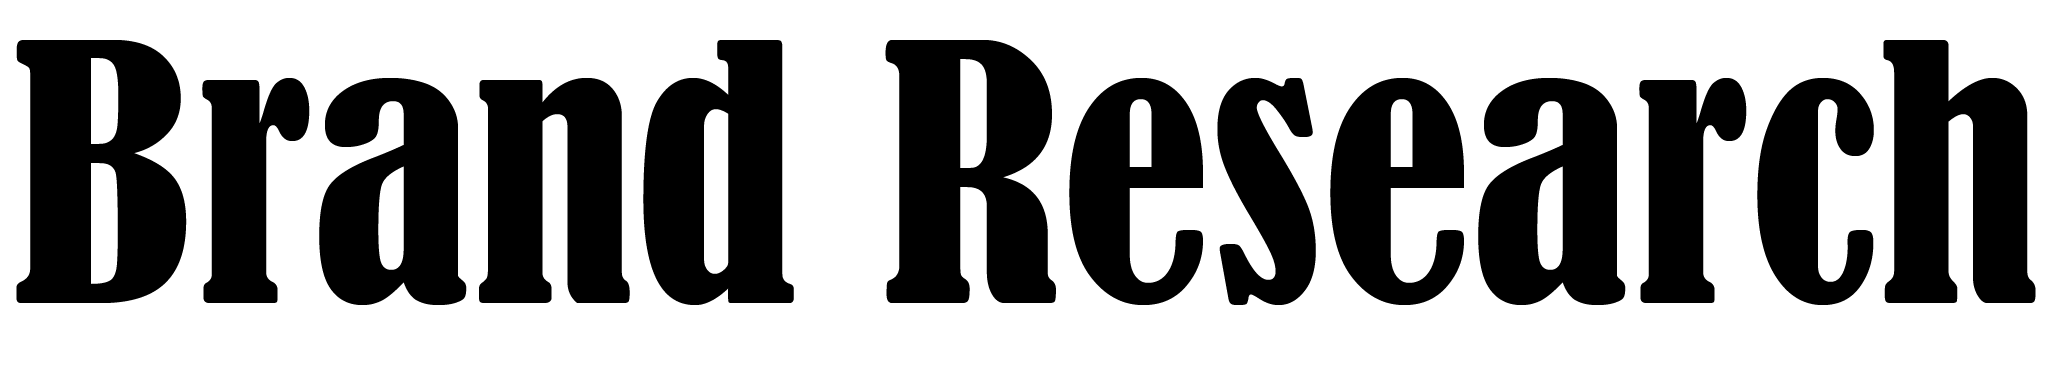
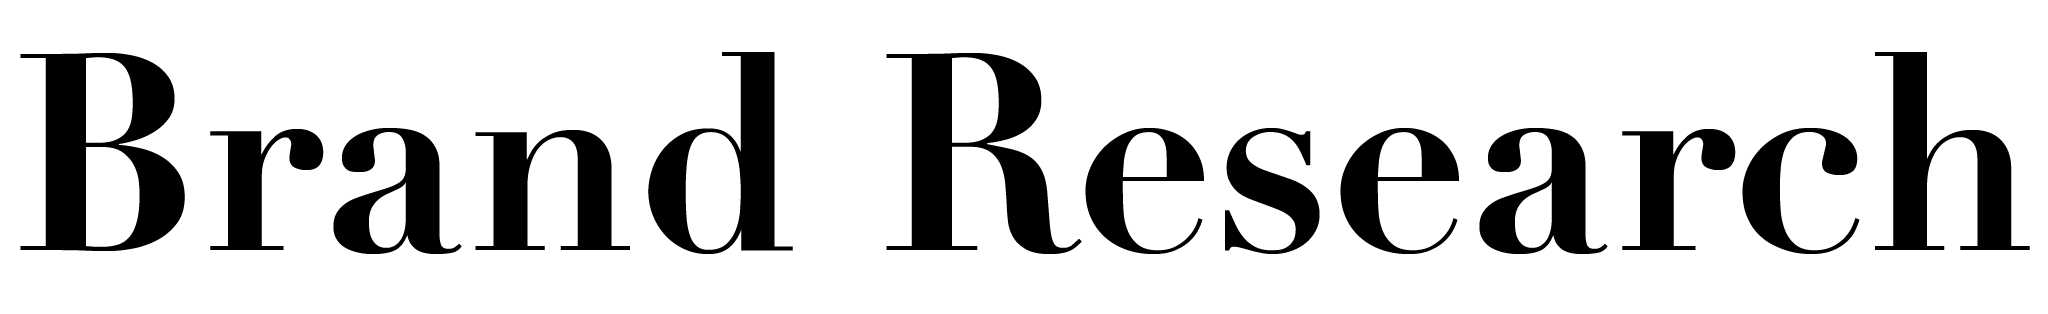
Updating branding

Changed region(s): [[0.0, 0.086, 1.0, 0.8312]]

diff --git a/public/process.css b/public/process.css
@@ -5,7 +5,82 @@
     overflow-x: hidden !important;
   }
   #logo {
-    max-width: 35vw;
+    max-width: 85vw;
+    width: 100%;
+    height: auto;
+  }
+  nav {
+    display: flex;
+    flex-direction: column;
+    justify-content: center;
+    align-items: center;
+  }
+  #introDiv,
+  #brandResearch,
+  #userResearch,
+  #uiDesign {
+    display: flex;
+    flex-direction: column;
+    justify-content: center;
+    align-items: center;
+  }
+  #introDiv p,
+  #introDiv li,
+  p,
+  li {
+    width: 80vw;
+    font-family: "Bodoni Moda", serif;
+  }
+  .empathyMap {
+    width: 60vw;
+  }
+  .standard {
+    width: 90vw;
+  }
+  .smallMockup {
+    max-width: 80vw;
+    width: 100%;
+    height: auto;
+    border: 5px solid black;
+    border-radius: 10px;
+    margin: 1%;
+  }
+  .largeMockup {
+    max-width: 80vw;
+    width: 100%;
+    height: auto;
+    border: 5px solid black;
+    border-radius: 10px;
+  }
+  .design {
+    max-width: 90vw;
+    width: 100%;
+    height: auto;
+  }
+  #progressDesigns {
+    display: flex;
+    flex-direction: column;
+    justify-content: center;
+    align-items: center;
+  }
+  footer {
+    display: flex;
+    flex-direction: column;
+    justify-content: center;
+    align-items: center;
+    background-color: #000000;
+    padding-top: 3%;
+    padding-bottom: 3%;
+  }
+  footer p a {
+    color: #ffffff;
+    text-decoration: none;
+  }
+  footer p a:hover {
+    text-decoration: underline;
+  }
+  #footerLogo {
+    max-width: 70vw;
     width: 100%;
     height: auto;
   }
@@ -18,6 +93,7 @@
     width: 100%;
     overflow-x: hidden !important;
   }
+
   #logo {
     max-width: 35vw;
     width: 100%;
@@ -46,11 +122,40 @@
     width: 65vw;
     font-family: "Bodoni Moda", serif;
   }
+  #progressDesigns {
+    display: flex;
+    flex-direction: row;
+    justify-content: space-evenly;
+    align-items: flex-start;
+  }
+  .largeMockup {
+    max-width: 80vw;
+    width: 100%;
+    height: auto;
+    border: 5px solid black;
+    border-radius: 10px;
+  }
   .empathyMap {
     width: 60vw;
   }
-  .user {
-    width: 60vw;
+  .standard {
+    width: 70vw;
+  }
+  .smallMockup {
+    max-width: 40vw;
+    width: 100%;
+    height: auto;
+    border: 5px solid black;
+    border-radius: 10px;
+    margin: 1%;
+  }
+  .design {
+    width: 90vw;
+  }
+  .sectionTitle {
+    max-width: 27vw;
+    width: 100%;
+    height: auto;
   }
   #brandResearch,
   #userResearch,
@@ -126,5 +231,29 @@
   }
   .userSlide {
     display: none;
+  }
+  footer {
+    display: flex;
+    flex-direction: row;
+    justify-content: space-evenly;
+    align-items: center;
+    background-color: #000000;
+    max-width: 100%;
+    width: 100%;
+    height: auto;
+    padding-top: 3%;
+    padding-bottom: 3%;
+  }
+  footer p a {
+    color: #ffffff;
+    text-decoration: none;
+  }
+  footer p a:hover {
+    text-decoration: underline;
+  }
+  #footerLogo {
+    max-width: 40vw;
+    width: 100%;
+    height: auto;
   }
 }

diff --git a/public/home.css b/public/home.css
@@ -88,7 +88,7 @@
     flex-direction: column;
     justify-content: center;
     align-items: center;
-    background-color: #d3aad0;
+    background-color: #a4133c;
     border: 2px solid black;
     padding-bottom: 3%;
   }
@@ -109,7 +109,7 @@
     flex-direction: column;
     justify-content: center;
     align-items: center;
-    background-color: #000000;
+    background-color: #eacdb7;
     padding-top: 3%;
     padding-bottom: 3%;
   }
@@ -149,10 +149,9 @@
     padding-top: 1%;
   }
   #logo {
-    max-width: 60vw;
+    max-width: 70vw;
     width: 100%;
     height: auto;
-    padding-bottom: 1%;
   }
   #links {
     display: flex;
@@ -175,6 +174,7 @@
   }
   #introCol h3 {
     font-family: "Bodoni Moda", serif;
+    font-size: 21px;
     width: 70vw;
     margin: 0;
   }
@@ -216,7 +216,7 @@
     padding-bottom: 3%;
   }
   #processDiv div img {
-    max-width: 18vw;
+    max-width: 27vw;
     width: 100%;
     height: auto;
     padding-top: 3%;
@@ -239,7 +239,7 @@
     flex-direction: column;
     justify-content: center;
     align-items: center;
-    background-color: #d3aad0;
+    background-color: #a4133c;
     border: 2px solid black;
     max-width: 100%;
     width: 100%;
@@ -266,7 +266,7 @@
     flex-direction: row;
     justify-content: space-evenly;
     align-items: center;
-    background-color: #000000;
+    background-color: #0d0628;
     max-width: 100%;
     width: 100%;
     height: auto;
@@ -286,7 +286,7 @@
     height: auto;
   }
   .titleImg {
-    max-width: 20vw;
+    max-width: 40vw;
     width: 100%;
     height: auto;
     padding-top: 3%;
